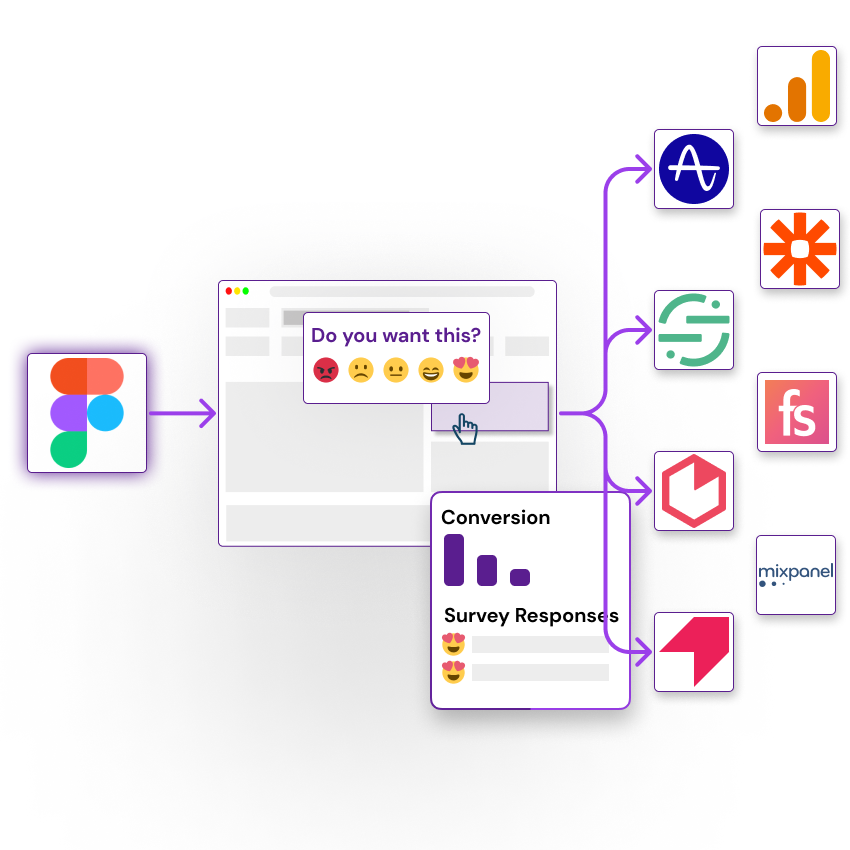
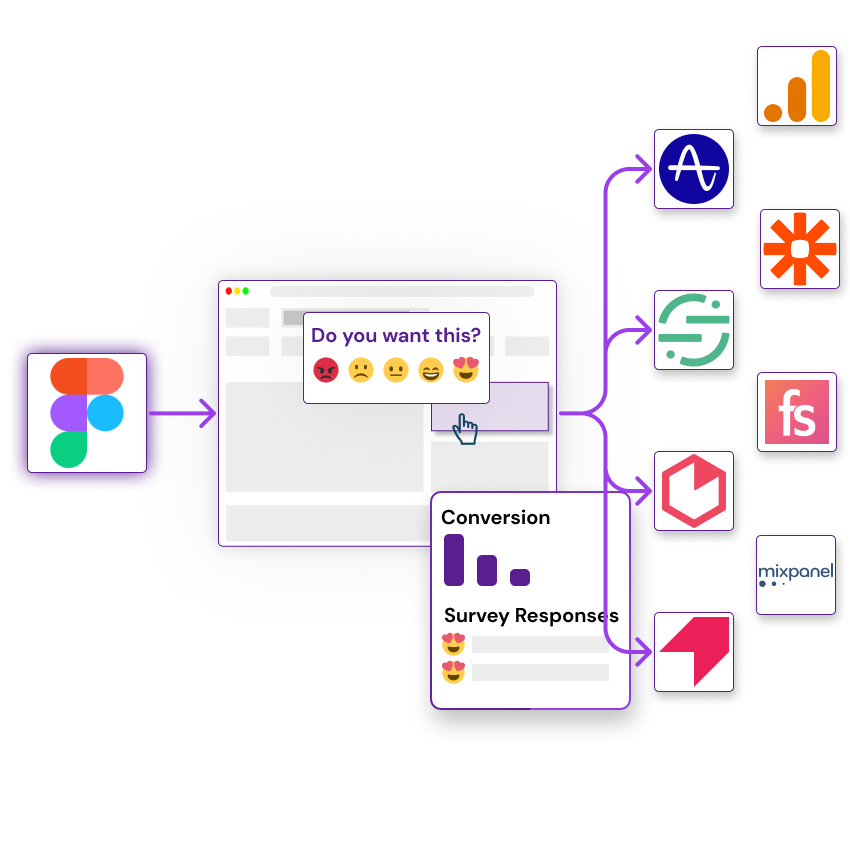
Update figma imagery

Changed region(s): [[0.3671, 0.6424, 0.52, 0.7953]]

diff --git a/src/pages/integrations/figma/index.js b/src/pages/integrations/figma/index.js
@@ -16,7 +16,7 @@ import Hero from "../components/Hero";
 import ContentLeftCopy from "../components/ContentLeftCopy";
 import ContentRightCopy from "../components/ContentRightCopy";
 
-import AmplitudeImg1 from "./Amplitude-1.png";
+import Img1 from "./1.png";
 import AmplitudeImg2 from "./Amplitude-2.png";
 import AmplitudeImg3 from "./Amplitude-3.png";
 import AmplitudeOGImage from "./Amplitude-OG-Image.png";
@@ -58,7 +58,7 @@ const IntegrationDetails = ({ data }) => {
         <Video videoUrl="https://youtu.be/HU1lxZfNSqM" />
 
         <ContentLeftCopy
-          img={AmplitudeImg1}
+          img={Img1}
           title="Fake Door Test using your design system"
           body="Literally drag figma components unto your website. 
           Setup who sees the test.
